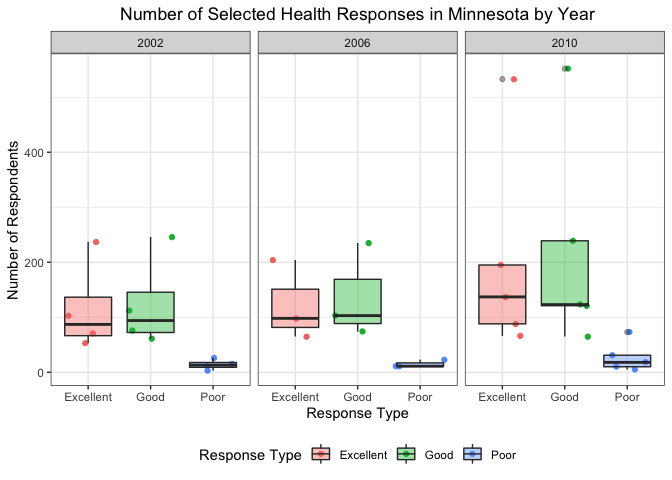
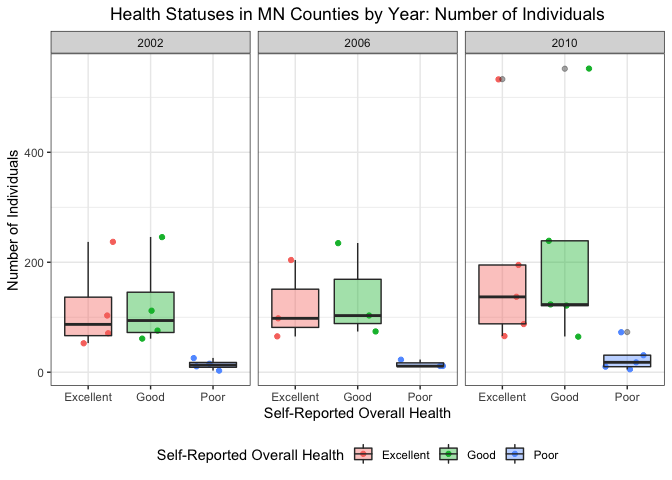
Modified labels of last two plots

diff --git a/pubh7462_hw2_wojan.md b/pubh7462_hw2_wojan.md
@@ -241,10 +241,10 @@ brfss_clean %>%
     geom_jitter(aes(x = response, y = num_respondents, color = response)) +
     geom_boxplot(aes(x = response, y = num_respondents, fill = response), alpha = 0.4) +
     facet_wrap(vars(year)) +
-    labs(x = "Response Type", y = "Number of Respondents", 
-         title = "Number of Selected Health Responses in Minnesota by Year") +
-    guides(color = guide_legend(title = "Response Type"),
-           fill = guide_legend(title = "Response Type"))
+    labs(x = "Self-Reported Overall Health", y = "Number of Individuals", 
+         title = "Health Statuses in MN Counties by Year: Number of Individuals") +
+    guides(color = guide_legend(title = "Self-Reported Overall Health"),
+           fill = guide_legend(title = "Self-Reported Overall Health"))
 ```
 
 ![](pubh7462_hw2_wojan_files/figure-gfm/prob_3.3.4-1.png)<!-- -->
@@ -260,10 +260,10 @@ brfss_clean %>%
     geom_jitter(aes(x = response, y = percent, color = response)) +
     geom_boxplot(aes(x = response, y = percent, fill = response), alpha = 0.4) +
     facet_wrap(vars(year)) +
-    labs(x = "Response Type", y = "Percent of Respondents", 
-         title = "Percent of Selected Health Responses in Minnesota by Year") +
-    guides(color = guide_legend(title = "Response Type"),
-           fill = guide_legend(title = "Response Type"))
+    labs(x = "Self-Reported Overall Health", y = "Percent of All Individuals (%)", 
+         title = "Health Statuses in MN Counties by Year: Percent") +
+    guides(color = guide_legend(title = "Self-Reported Overall Health"),
+           fill = guide_legend(title = "Self-Reported Overall Health"))
 ```
 
 ![](pubh7462_hw2_wojan_files/figure-gfm/prob_3.3.4-2.png)<!-- -->
